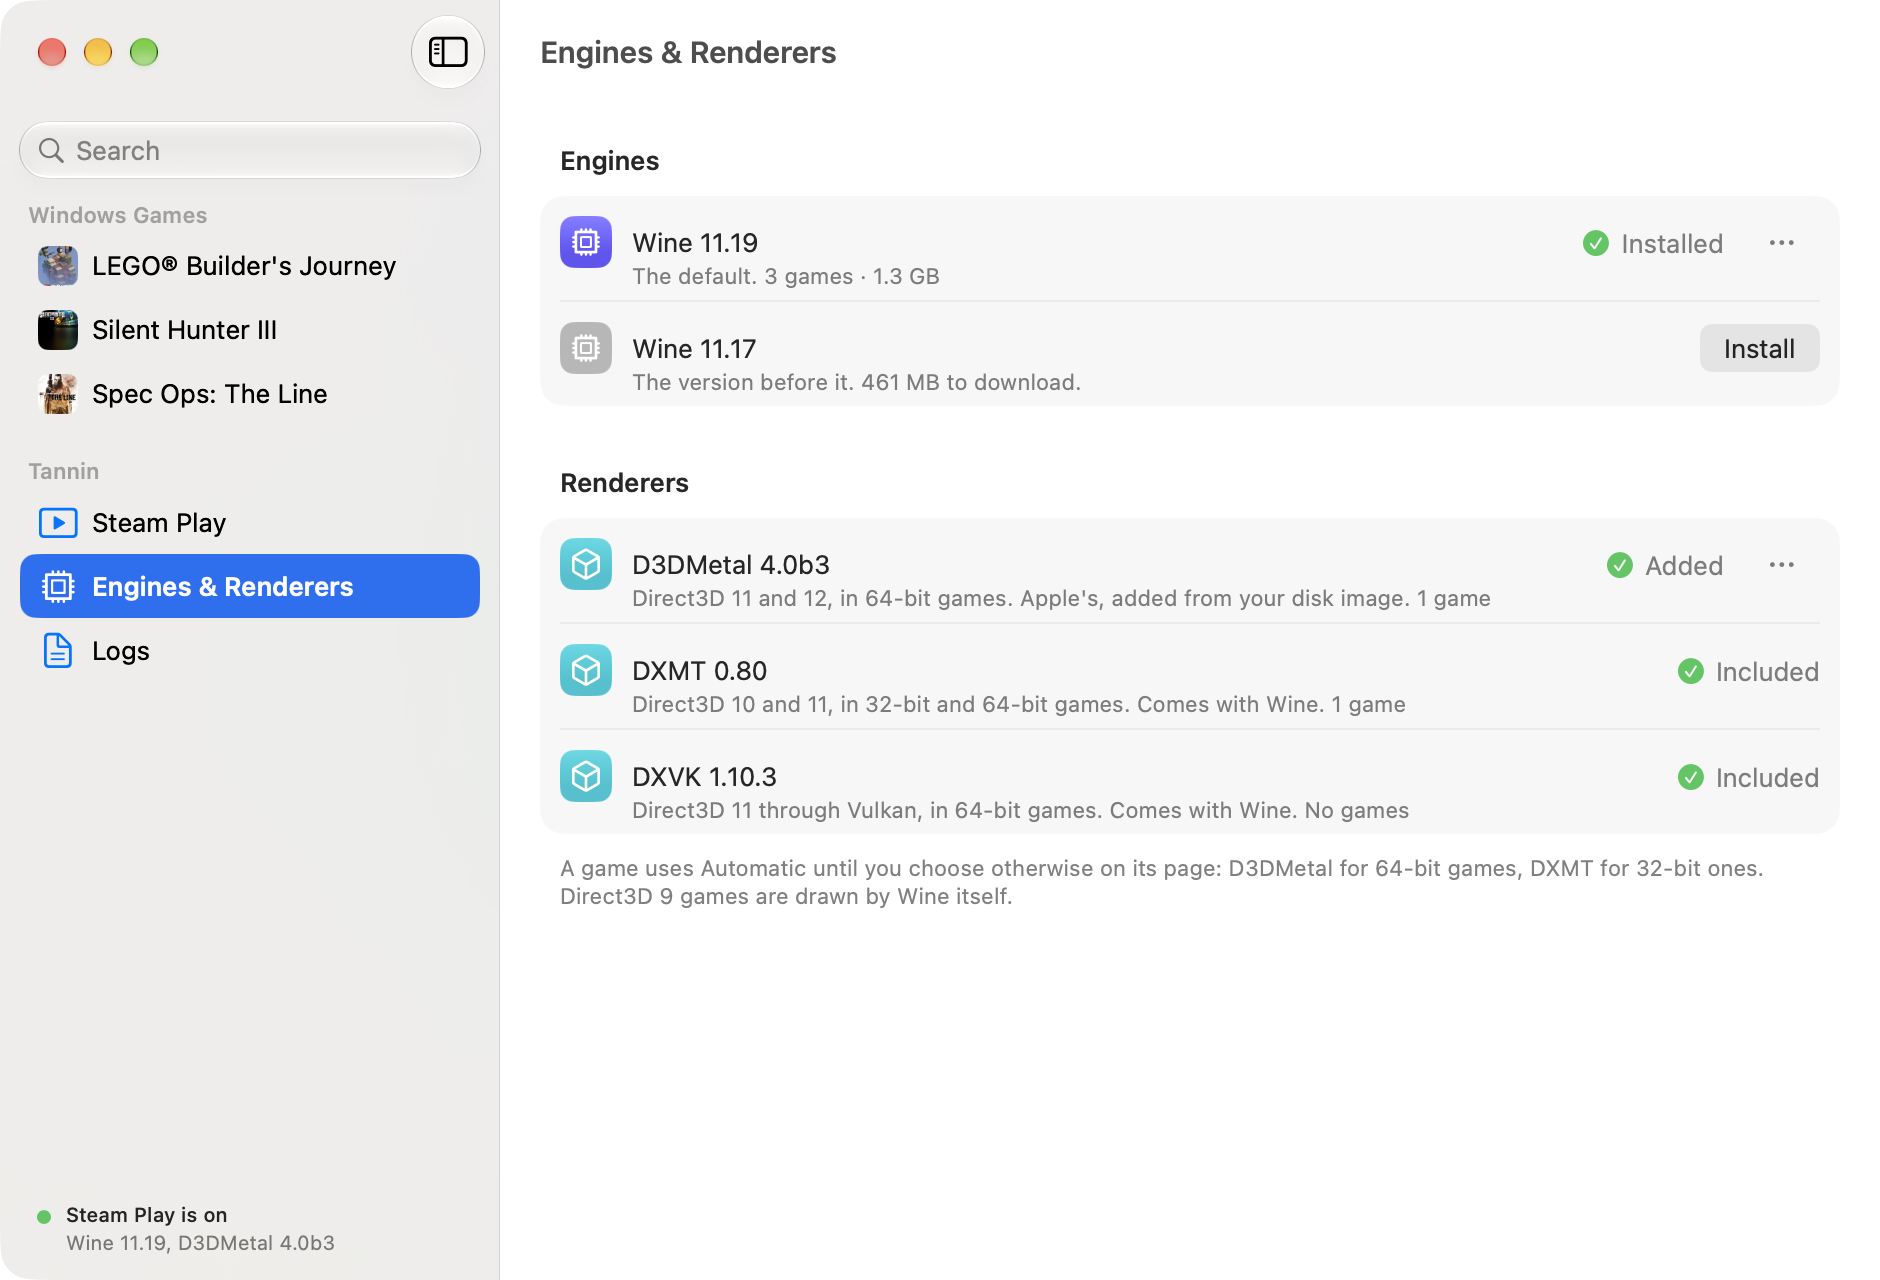
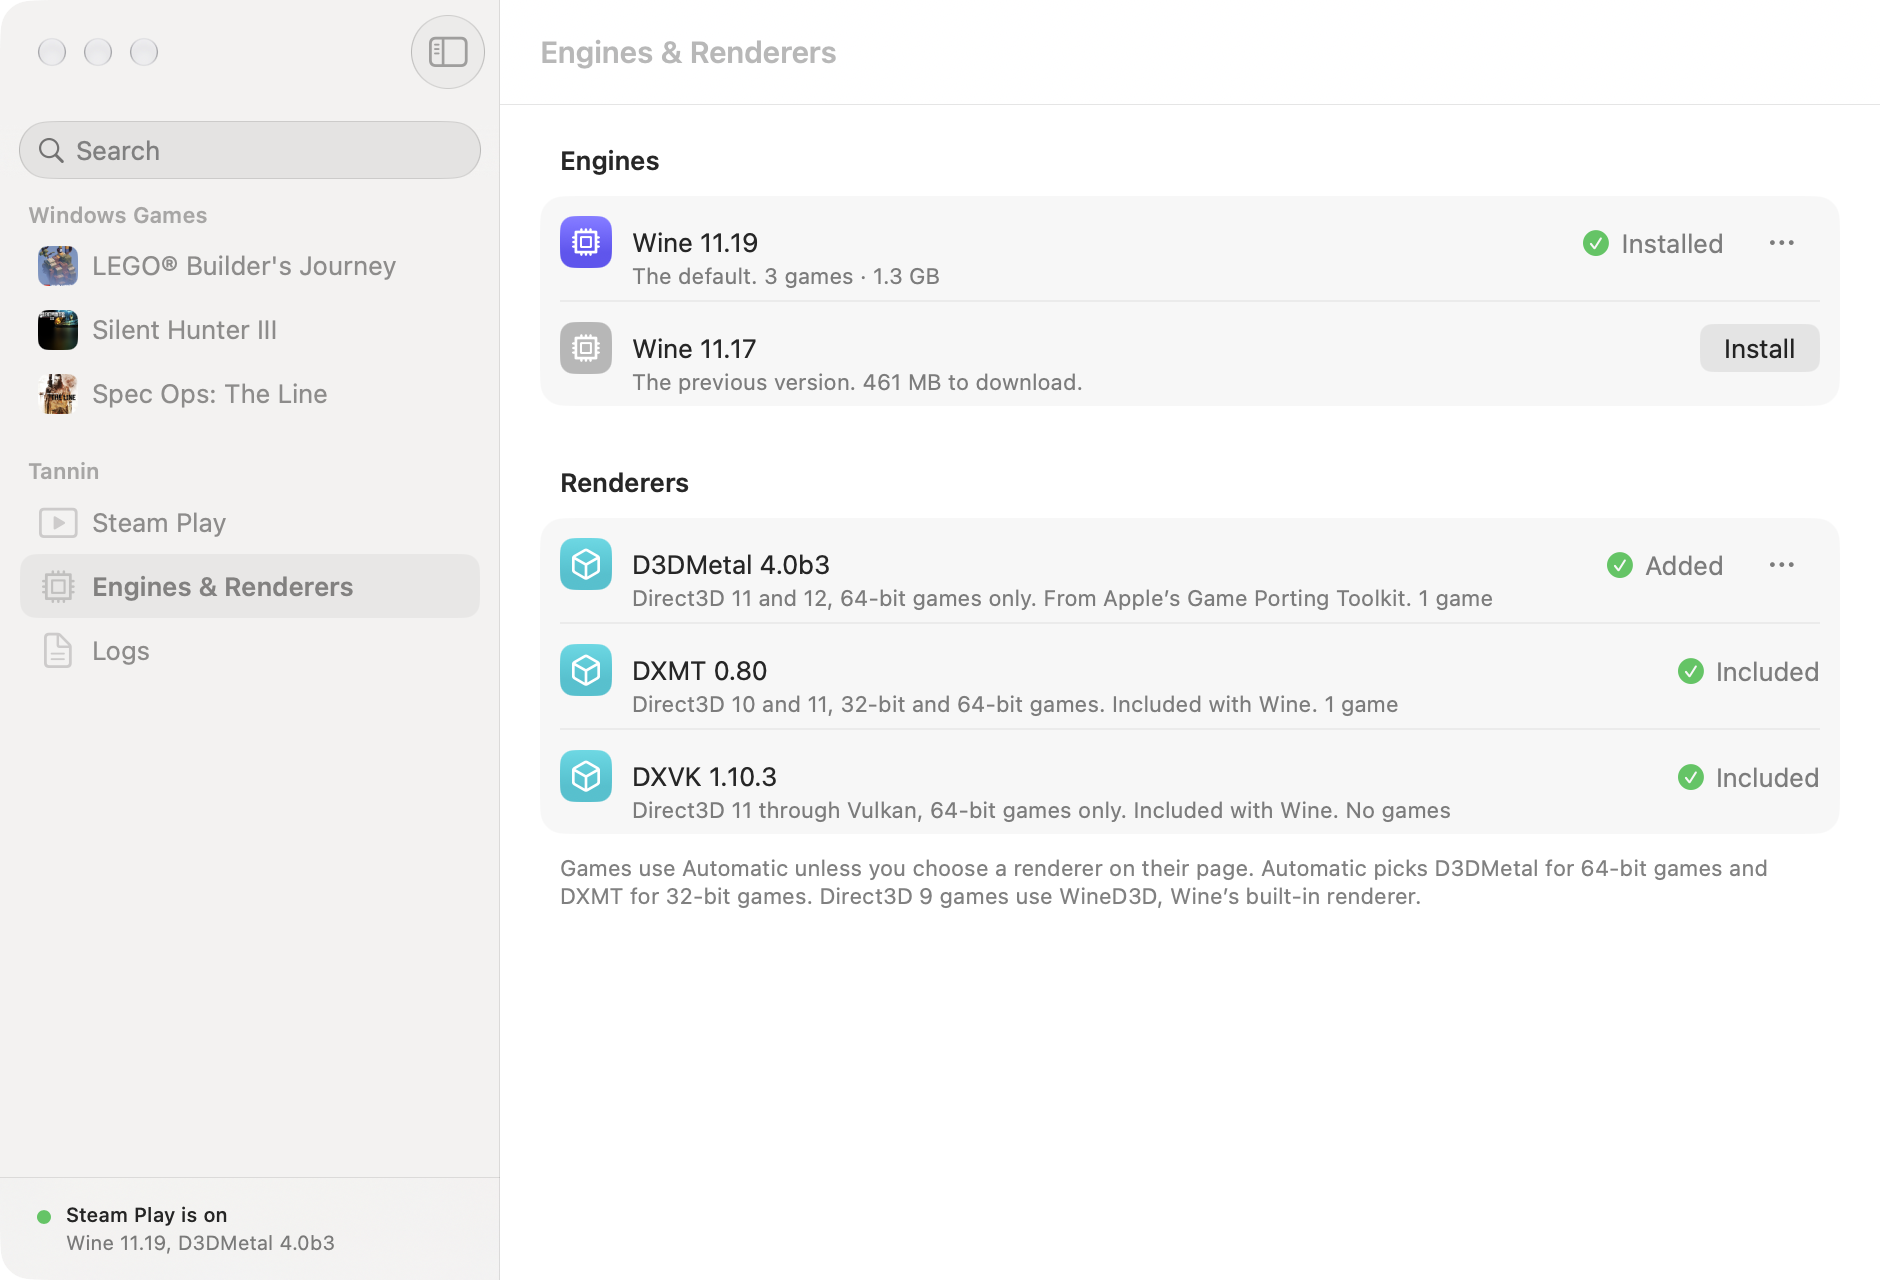
Shorten seven strings that wrapped badly, and retake the pictures
Found by reading every state's picture with the new text: the refused-by-
macOS notice, the Steam Play card and sheet, the Add D3DMetal sheet's first
step, D3DMetal's row before it is added, and the Steam Play caption after a
Steam update each ran to an extra line or left one word on its own.

Claude-Session: https://claude.ai/code/session_016VVHjmvDeBvCfJ9GBQeFgj

diff --git a/Sources/TanninApp/SteamPlay/SteamPlaySheet.swift b/Sources/TanninApp/SteamPlay/SteamPlaySheet.swift
@@ -14,9 +14,9 @@ struct SteamPlaySheet: View {
 
             VStack(alignment: .leading, spacing: 12) {
                 point("arrow.clockwise", "Steam quits and reopens",
-                      "Tannin adds one file to Steam and re-signs the app on your Mac.")
+                      "Tannin adds one file to Steam and re-signs the app.")
                 point("lock.shield", "macOS asks for permission",
-                      "Allow Tannin to modify other apps. Afterward, macOS asks you to approve Steam’s controller and keyboard access again.")
+                      "Allow Tannin to modify other apps. Then approve Steam’s controller and keyboard access again.")
                 point("arrow.uturn.backward", "You can undo this",
                       "Removing Steam Play restores Valve’s original Steam. Your games, saves, and account aren’t affected.")
             }

diff --git a/Sources/TanninApp/Renderers/RenderersSection.swift b/Sources/TanninApp/Renderers/RenderersSection.swift
@@ -55,7 +55,7 @@ struct RenderersSection: View {
                 Text(model.status?.d3dMetalVersion.map { "D3DMetal \($0)" } ?? "D3DMetal")
                 Text(model.d3dMetalIsAdded
                     ? "Direct3D 11 and 12, 64-bit games only. From Apple’s Game Porting Toolkit. \(count(.d3dMetal))"
-                    : "Direct3D 11 and 12, 64-bit games only. A free download from Apple, required for Direct3D 12 games.")
+                    : "Direct3D 11 and 12, 64-bit games only. Free from Apple. Direct3D 12 games need it.")
             } icon: {
                 ComponentTile(kind: .renderer, isOnThisMac: model.d3dMetalIsAdded)
             }

diff --git a/Sources/TanninApp/Setup/SetupAction.swift b/Sources/TanninApp/Setup/SetupAction.swift
@@ -71,7 +71,7 @@ struct SetupAction: View {
 
             case .steamPlayRefused:
                 SetupNotice(title: "macOS blocked Tannin from changing Steam",
-                            detail: "In System Settings, go to Privacy & Security > App Management and turn on Tannin. Then add Steam Play again.") {
+                            detail: "Turn on Tannin in Privacy & Security > App Management, then add Steam Play again.") {
                     Button("Open System Settings") { openURL(Self.appManagement) }
                 }
                 SteamPlayCard(isAddingSteamPlay: $isAddingSteamPlay)

diff --git a/Sources/TanninApp/Setup/SteamPlayCard.swift b/Sources/TanninApp/Setup/SteamPlayCard.swift
@@ -15,7 +15,7 @@ struct SteamPlayCard: View {
                 .accessibilityHidden(true)
             VStack(alignment: .leading, spacing: 2) {
                 Text("Add Steam Play to Steam").fontWeight(.semibold)
-                Text("Steam will quit and reopen, and macOS will ask for permission.")
+                Text("Steam quits and reopens. macOS asks for permission.")
                     .font(.callout)
                     .foregroundStyle(.secondary)
                     .fixedSize(horizontal: false, vertical: true)

diff --git a/Sources/TanninApp/SteamPlay/SteamPlayView.swift b/Sources/TanninApp/SteamPlay/SteamPlayView.swift
@@ -104,7 +104,7 @@ struct SteamPlayView: View {
         case .on:
             switch status.addonLoaded {
             case true?: return "Loaded when Steam last started." + build
-            case false?: return "Steam updated to a build Tannin doesn’t support yet, so Steam Play is off." + build
+            case false?: return "Steam updated to a build Tannin doesn’t support yet." + build
             case nil: return "Takes effect the next time Steam starts." + build
             }
         }

diff --git a/Sources/TanninApp/Renderers/AddD3DMetalSheet.swift b/Sources/TanninApp/Renderers/AddD3DMetalSheet.swift
@@ -39,7 +39,7 @@ struct AddD3DMetalSheet: View {
             }
 
             VStack(spacing: 0) {
-                step(1, "Download the Game Porting Toolkit", "Get the latest disk image from Apple’s developer downloads.") {
+                step(1, "Download the toolkit", "Get the latest disk image from Apple.") {
                     Button("Open Apple’s Page", systemImage: "arrow.up.right") { openURL(Self.applePage) }
                         .labelStyle(.titleAndIcon)
                 }
